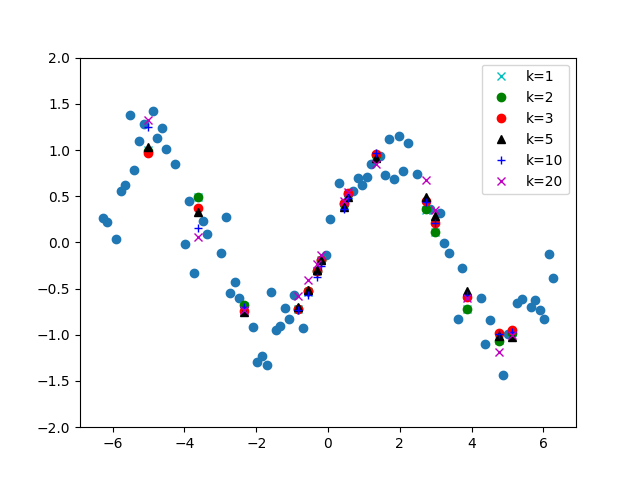
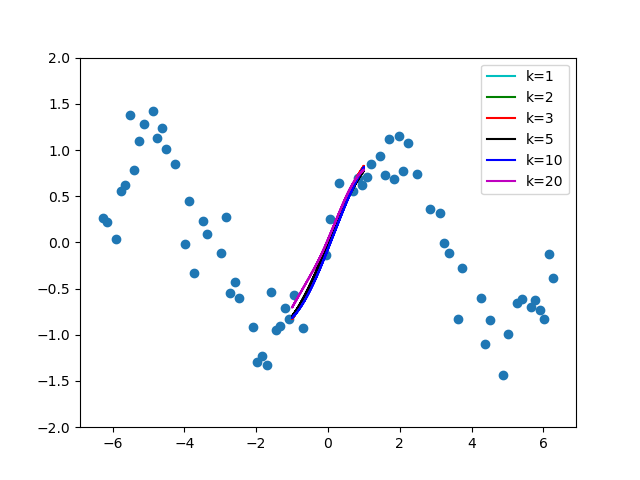
Refine the plot for ps1::featuremaps::featuremap.py. Still need to make the curve cover the entire input span.

diff --git a/ps1/src/featuremaps/featuremap.py b/ps1/src/featuremaps/featuremap.py
@@ -71,7 +71,7 @@ class LinearModel(object):
             poly_features_with_sin[:, i] = X[:, 1] ** i
         poly_features_with_sin[:, k + 1] = np.sin(X[:, 1])
         
-        util.print_matrix(poly_features_with_sin)
+        #util.print_matrix(poly_features_with_sin)
         return poly_features_with_sin
 
         # *** END CODE HERE ***
@@ -97,65 +97,65 @@ class LinearModel(object):
         # *** END CODE HERE ***
 
 
-def run_exp(train_path, eval_path, sine=False, ks=[1, 2, 3, 5, 10, 20], filename='plot.png'):
+def run_exp(train_path, eval_path, sine=False, ks=[0, 1, 2, 3, 5, 10, 20], filename='plot.png'):
     train_x,train_y=util.load_dataset(train_path,add_intercept=True)
     plot_x = np.ones([1000, 2])
     plot_x[:, 1] = np.linspace(-factor*np.pi, factor*np.pi, 1000)
     plt.figure()
     plt.scatter(train_x[:, 1], train_y)
 
+    # *** START CODE HERE ***
+
+    # Load validation set and use validation poly features
+    x_eval, y_eval = util.load_dataset(eval_path, add_intercept=True)
+    print(f"x_eval.shape =  {x_eval.shape}")
+    x_eval_smooth = np.linspace(min(x_eval[:, 1]), max(x_eval[:, 1]), 1000).reshape(-1, 1)
+    x_eval_smooth = np.hstack([np.ones_like(x_eval_smooth), x_eval_smooth])
+    print(f"x_eval_smooth.shape =  {x_eval_smooth.shape}")
+
     for k in ks:
         '''
         Our objective is to train models and perform predictions on plot_x data
         '''
-        # *** START CODE HERE ***
-        
+        print(f"k = {k}")
         # Load training set
         x_train, y_train = util.load_dataset(train_path, add_intercept=True)
         print(f"shape of x_train {x_train.shape}")
         print(f"shape of y_train {y_train.shape}")
         # Fit a LWR model
         model = LinearModel()
-
         # convert the x_train into poly features
-        #x_train_poly
         if not sine:
-            x_train_poly =  model.create_poly(k, x_train)
+            x_train =  model.create_poly(k, x_train)
         else:
-            x_train_poly =  model.create_sin(k, x_train)
-        
-        model.fit(x_train_poly, y_train)
-        # Load validation set and use validation poly features
-        x_eval, y_eval = util.load_dataset(eval_path, add_intercept=True)
-        print(f"x_eval.shape =  {x_eval.shape}")
-        print(f"y_eval.shape = {y_eval.shape}")
+            x_train =  model.create_sin(k, x_train)
+        model.fit(x_train, y_train)
         if not sine:
-            x_eval_poly =  model.create_poly(k, x_eval)
+            x_eval_smooth =  model.create_poly(k, x_eval_smooth)
         else:
-            x_eval_poly =  model.create_sin(k, x_eval)
-        y_pred = model.predict(x_eval_poly)
-        # Get MSE value on the validation set
-        mse = np.mean((y_eval - y_pred) ** 2)
-        print(f'MSE on validation set: {mse}')  
-        # *** END CODE HERE ***
+            x_eval_smooth =  model.create_sin(k, x_eval_smooth)
+
+        print(f"x_eval_smooth.shape =  {x_eval_smooth.shape}")
+        y_pred = model.predict(x_eval_smooth)
+    
         '''
         Here plot_y are the predictions of the linear model on the plot_x data
         '''
         plt.ylim(-2, 2)
-        # plt.plot(plot_x[:, 1], plot_y, label='k=%d' % k)
         if k == 1:
-            plt.plot(x_eval[:, 1], y_pred, 'cx', label='k=%d' % k)
+            plt.plot(x_eval_smooth[:, 1], y_pred, 'c-', label='k=%d' % k)
         elif k == 2:
-            plt.plot(x_eval[:, 1], y_pred, 'go', label='k=%d' % k)
+            plt.plot(x_eval_smooth[:, 1], y_pred, 'g-', label='k=%d' % k)
         elif k == 3:
-            plt.plot(x_eval[:, 1], y_pred, 'ro', label='k=%d' % k)
+            plt.plot(x_eval_smooth[:, 1], y_pred, 'r-', label='k=%d' % k)
         elif k == 5:
-            plt.plot(x_eval[:, 1], y_pred, '^k', label='k=%d' % k)
+            plt.plot(x_eval_smooth[:, 1], y_pred, 'k-', label='k=%d' % k)
         elif k == 10:
-            plt.plot(x_eval[:, 1], y_pred, 'b+', label='k=%d' % k)
+            plt.plot(x_eval_smooth[:, 1], y_pred, 'b-', label='k=%d' % k)
         elif k == 20:
-            plt.plot(x_eval[:, 1], y_pred, 'xm', label='k=%d' % k)
+            plt.plot(x_eval_smooth[:, 1], y_pred, 'm-', label='k=%d' % k)
 
+    # *** END CODE HERE ***
     plt.legend()
     plt.savefig(filename)
     plt.clf()
@@ -166,9 +166,10 @@ def main(train_path, small_path, eval_path):
     Run all expetriments
     '''
     # this is for (b)
-    # run_exp_k_equals_3(train_path, small_path, eval_path)
+    #run_exp_k_equals_3(train_path, small_path, eval_path)
     # this is for (c)
-    # run_exp(train_path, eval_path)
+    #run_exp(train_path, eval_path)
+    # this is for (d)
     run_exp(train_path, eval_path, True)
 
     
@@ -182,23 +183,23 @@ def run_exp_k_equals_3 (train_path, small_path, eval_path):
     # Fit a LWR model
     model = LinearModel()
 
-    # convert the x_train into poly features
+    # convert the x_train into poly features then train the model
     x_train_poly =  model.create_poly(3, x_train)
     model.fit(x_train_poly, y_train)
-    # Load validation set and use validation poly features
-    x_eval, y_eval = util.load_dataset(eval_path, add_intercept=True)
-    print(f"x_eval.shape =  {x_eval.shape}")
-    print(f"y_eval.shape = {y_eval.shape}")
-    x_eval_poly = model.create_poly(3, x_eval)
-    y_pred = model.predict(x_eval_poly)
-    # Get MSE value on the validation set
-    mse = np.mean((y_eval - y_pred) ** 2)
-    print(f'MSE on validation set: {mse}') 
-    # Plot validation predictions on top of training set  def plot(x, y, theta, save_path, correction=1.0):
+    # we need to plot the learnt hypothesis as a smooth curve over it
+    x_eval, _ = util.load_dataset(eval_path, add_intercept=True)
+    print(f"shape of x_eval {x_eval.shape}")
+    x_smooth = np.linspace(min(x_eval[:, 1]), max(x_eval[:, 1]), 1000).reshape(-1, 1)
+    x_smooth = np.hstack([np.ones_like(x_smooth), x_smooth])
+    print(f"shape of x_smooth {x_smooth.shape}")
+    x_poly_smooth = model.create_poly(3, x_smooth)
+    y_pred_smooth = model.predict(x_poly_smooth)
+    
+    # create a scatter plot of the training data
     plt.figure()
-    plt.plot(x_train[:, 1], y_train, 'bx', label='Training Data')
-    plt.plot(x_eval[:, 1], y_eval, 'go', label='Validation Data')
-    plt.plot(x_eval[:, 1], y_pred, 'ro', label='LWR Predictions')
+    plt.plot(x_train[:, 1], y_train, 'bx', label='training data')
+    # we need to plot the learnt hypothesis as a smooth curve over it
+    plt.plot(x_poly_smooth[:, 1], y_pred_smooth, 'r-', label='learnt hypothesis')
     plt.legend()
     plt.show()
     # *** END CODE HERE ***    
